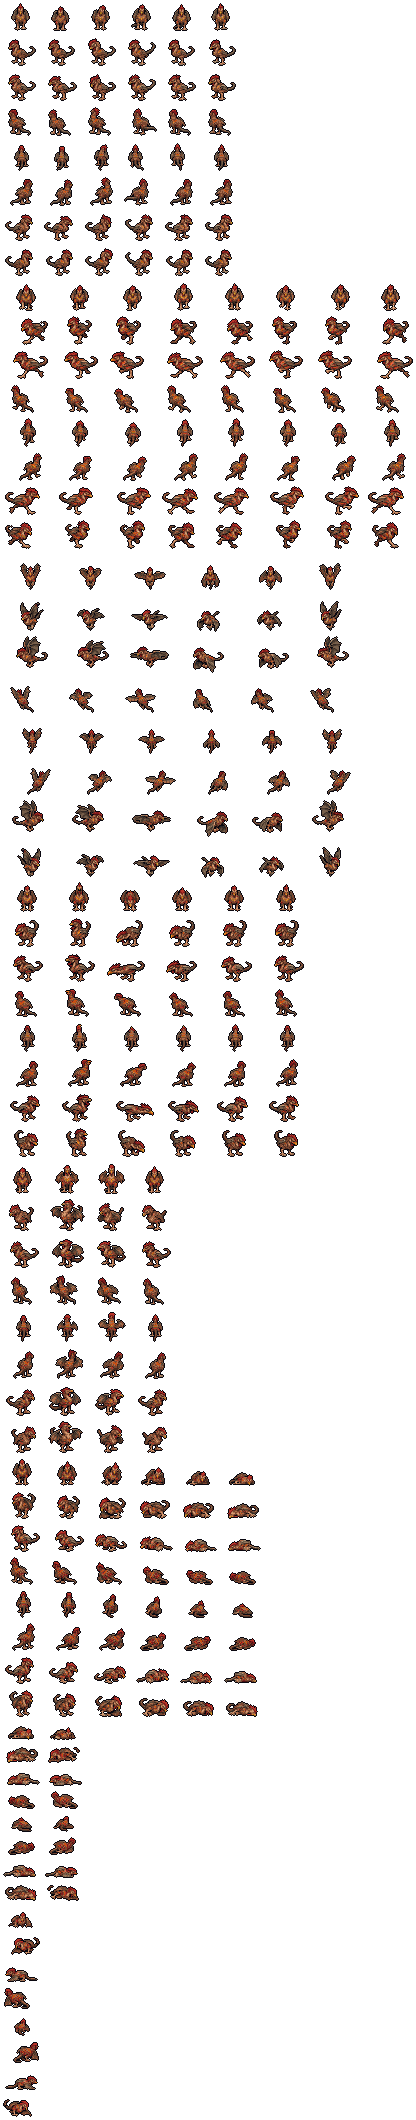
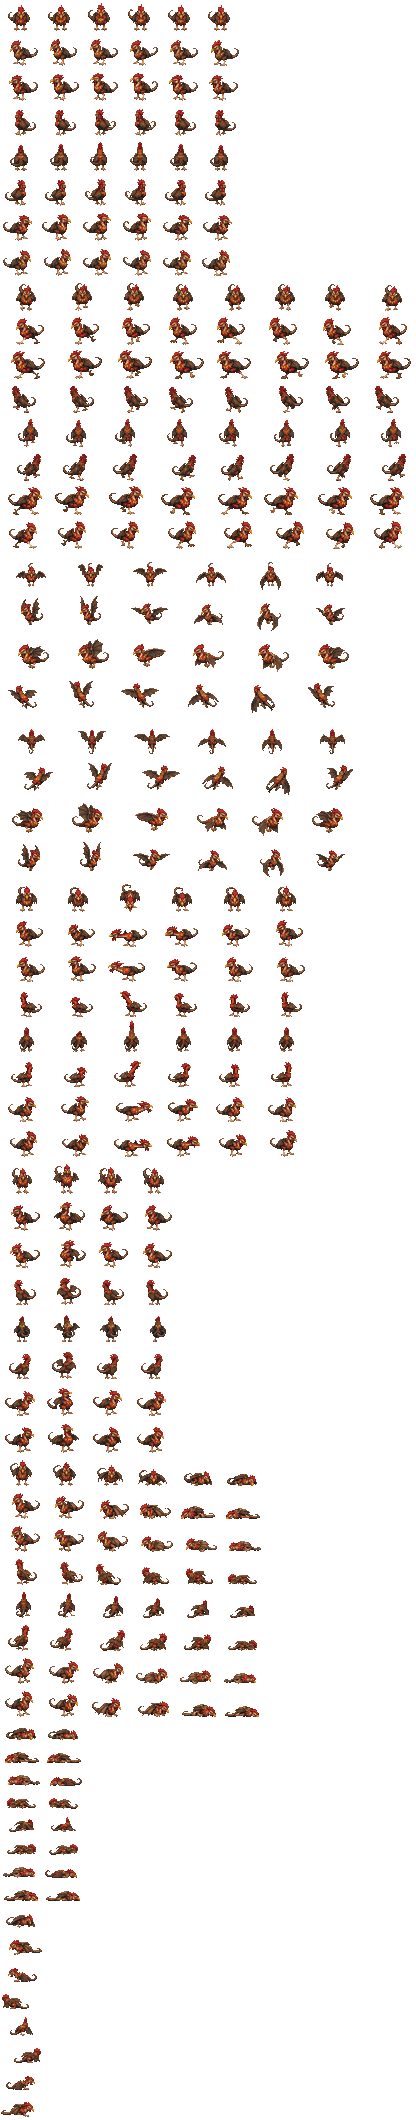
The cockatrice redrawn: the art desk's illustrated pages cut by its own recipe on our cells
The art desk's ART-WANTED-67 COCKATRICE ILLUSTRATED REDRAW (35 image-generated pages on the navy,
190 poses, no native cut) in place of the 11-15 cut of cockatrice_p1: its FRAME-MAP.json was made
against our installed sheet (its rows, cells, anchors and timing), so the sheet keeps every one.
tools/cockatrice-sheet.py redraw() follows its CUTTER-NOTES.md frame by frame -- the navy keyed out
(red minus blue > -5 or blue < 23), the main 8-connected piece, Lanczos to the frame's size, alpha at
128, the nearest of the 64 weighted 3:4:2, its trim and its place; prone 1 is Fall 6 moved by the
anchors' difference -- and matches its own 1x previews: every outline, all but 44 pixels in 31
frames (a shade, rounding). Its colours kept: the comb and wattle are drawn red, the chest
rust-orange (the house's red rule is for people's faces and cloth).

One change, the seat's call: the mat's navy enclosed between the legs, in the curled tail and under a
wing (2 game pixels or more) is left open; the notes' fill made it a dark blue blob at game size.
The 11-15 cut stays as `python tools/cockatrice-sheet.py 1115`.

Sorted out of Fresh to deep16/_src/cockatrice/2026-11-18-ART-WANTED-67-COCKATRICE-REDRAW/.
cockatrice1115 4 ok; its own show 9 ok (every row, the stoning bite); parade1115 22 ok.
Eyes eyes-cockatrice-redraw-1118 (the gallery's CREATURES shelf) in place of eyes-cockatrice-1115
(its art replaced, never seen; its stoning check carried); the art desk's flags on the dream list.
[…]

diff --git a/js/eyes.js b/js/eyes.js
@@ -22,6 +22,11 @@
   var DS = window.DS = window.DS || {};
   var G1 = 'Eyes: first', G2 = 'Eyes: built this week', G3 = 'Eyes: built before, never seen';
   DS.EYES = {
+    // THE CUTTER (cutter-1118), 11-18 (Opus; tools/cockatrice-sheet.py redraw(); deep16/art/cockatrice_p1): the cockatrice redrawn, in place of eyes-cockatrice-1115 (its art replaced, never seen)
+    'eyes-cockatrice-redraw-1118': { pri: 2, group: G2, title: 'THE COCKATRICE REDRAWN: the art desk\'s illustrated rooster-lizard, its bite that turns flesh to stone (11-18)', pt: 'the bestiary lane, 2026-11-18 (the cutter, cutter-1118; tools/cockatrice-sheet.py redraw(); deep16/art/cockatrice_p1; data/foes.js cockatrice)',
+      obj: 'In the gallery, watch the redrawn cockatrice strut, fly and bite — does it read as a rooster-lizard, its comb red?',
+      url: 'deep16/?gallery&shelf=creatures&rows=cockatrice&fresh=1118k',
+      look: 'A LOOK, the gallery\'s CREATURES shelf on the cockatrice, its blow rows staged at a fighter with the dice pinned. The art desk\'s illustrated redraw in place of the 11-15 cut, on the same cells, sizes and rows: a red comb and wattle, a gold beak, a rust-orange chest, bat-like brown wings and a ringed lizard\'s tail; idle, walk, fly (aloft), the Bite (frame 3), flinch, fall, lying and the start of rising. Cut by the art desk\'s own recipe, with one change: the navy between its legs and inside its curled tail is left open, not filled to a dark blob. The bite still does what the 11-15 row asked you to judge: a hero who fails a DC 11 CON save begins to turn to stone (restrained) and saves again at the end of its next turn -- its show, deep16/?show=cockatrice. In the day\'s parade: deep16/?parade&only=wyvern,frostgiant,winterwolf,guard,cockatrice,greenhag&from=5 (the crew boss pair and the clerk walk in round it). It is on no table: where it is met is yours. Judge: does it read as the drawing; does the bite land on frame 3?' },
     // THE CUTTER (cutter-1118), 11-18 (Opus; tools/folk-costume-sheet.py crewboss, crewbossfight; deep16/art/folk{man,woman}_crewboss_p1, crewboss_p1): the crew boss redrawn, the pair and his fight figure
     'eyes-crewboss-redraw-1118': { pri: 2, group: G2, title: 'THE CREW BOSS REDRAWN: the Galleries\' scrapeboss and the man in the art desk\'s illustrated figures, and his fight figure with the mace (11-18)', pt: 'the bestiary lane, 2026-11-18 (the cutter, cutter-1118; tools/folk-costume-sheet.py; deep16/art/folk{man,woman}_crewboss_p1, crewboss_p1)',
       obj: 'In the gallery, look over the crew bosses: the pair, and the man swinging his mace — do they read as their portraits?',
@@ -172,11 +177,6 @@
       obj: 'On the Coldridge Route, weather a flying wyvern\'s bite and sting — does it read aloft, not sunk in the floor?',
       url: 'deep16/?parade&only=wyvern&fresh=1115wa',
       look: 'A SHOW, the parade with the wyvern alone. Your "see if the wyvern cutter needs attacks while in flight and if it can cut off the legs on the attacks and use those", and "1 - yeah". It did: aloft it played its ground Bite and Sting with its legs planted on nothing. Now its sheet has two rows more, its Bite and its Sting with everything below the belly cut away (the hind legs and the wing-wrists it walks on; the stinger\'s tip kept where it strikes low) and the cut edge outlined, and the game plays them whenever it strikes while flying. The Claws stay as the art desk drew them -- wings spread, the talons forward: the talons are the blow, and it uses them only aloft (the seat\'s call, yours to overrule). In the parade it strikes on the ground for the first two rounds, takes to the air for the third (round the compass) and strikes flying, then lands for the crew boss. LOOK AT: the third round -- does the legless Bite and Sting read as a wyvern in flight, or as one sunk into the floor? The rows one at a time: ?gallery&shelf=creatures&rows=wyvern (airattack, airsting).' },
-    // THE CUTTER-FRESH-1115 SEAT, 11-15, its seventh piece (Opus; tools/cockatrice-sheet.py; data/foes.js cockatrice): the cockatrice, a new creature
-    'eyes-cockatrice-1115': { pri: 2, group: G2, title: 'THE COCKATRICE: a small rooster-lizard whose bite turns flesh to stone (11-15)', pt: 'the bestiary lane, 2026-11-15 (the cutter-fresh-1115 seat; tools/cockatrice-sheet.py; data/foes.js cockatrice)',
-      obj: 'Pocket DM, level 3: save a hero a cockatrice is turning to stone — does a failed save restrain the hero?',
-      url: 'deep16/?show=cockatrice&fresh=1115ck',
-      look: 'A SHOW (the watchers at level 3). The art desk\'s cockatrice: a small, mean rooster with a lizard\'s tail and bat-like wings. It struts in, flaps up, and pecks: a bitten hero who fails a DC 11 CON save begins to turn to stone (restrained), and saves again at the end of its next turn. Struck it flinches; down, it rolls onto its side. It is on no table: where it is met is yours.' },
     // THE PARADE-SHOW SEAT (parade-show-1115), 11-15 (Fable, after a start on Opus; deep16/js/parade.js; dev/bench16.js mode=parade1115): one show for the day's new art
     'eyes-parade-1115': { pri: 1, group: G1, title: 'THE PARADE: the four you have not watched in it -- the ice mephit, the cockatrice, the animated armor, the pegasus (11-15)', pt: 'the eyes lane, 2026-11-15 (the parade-show seat, parade-show-1115; deep16/js/parade.js; dev/bench16.js mode=parade1115)',
       obj: 'Watch the ice mephit, cockatrice, animated armor and pegasus in the parade — does nothing move till the townsfolk are in?',

diff --git a/deep16/index.html b/deep16/index.html
@@ -77,7 +77,7 @@
 <script src="js/art.js?v=e1ce4cf012"></script>
 <script src="data/cavern.js?v=647c1a184a"></script>
 <script src="data/maps.js?v=bef56a5de9"></script>
-<script src="data/sprites.js?v=4b988d974b"></script>
+<script src="data/sprites.js?v=71f73794e8"></script>
 <script src="js/sprites.js?v=ac7a3234c4"></script>
 <script src="js/save.js?v=f69af62f01"></script>
 <script src="data/spells.js?v=ae0037fb81"></script>
@@ -192,7 +192,7 @@
 <script src="js/parade.js?v=c64f9440c0"></script>
 <script src="js/ripplesfight.js?v=06a2bb3211"></script>
 <script src="js/blackegg.js?v=a19c31ed0d"></script>
-<script src="../js/eyes.js?v=6b9c5874f8"></script>
+<script src="../js/eyes.js?v=628c020988"></script>
 <script src="../js/tour.js?v=7715ef6c40"></script>
 <script src="js/onegallery.js?v=76e4ef74c9"></script>
 <script src="js/situations16.js?v=5ca0e8c2ff"></script>

diff --git a/deep16/data/sprites.js b/deep16/data/sprites.js
@@ -3082,7 +3082,7 @@
 "face": 41
 },
 "cockatrice_p1": {
-"image": "art/cockatrice_p1.png?v=5ca5dde6ff",
+"image": "art/cockatrice_p1.png?v=7a5d29c262",
 "fw": 40,
 "fh": 35,
 "ax": 20,
@@ -3164,7 +3164,7 @@
 }
 },
 "name": "Cockatrice",
-"source": "drawn by the art desk (COCKATRICE-DEEP16-SOURCES, 11-15), cut by tools/cockatrice-sheet.py; SW W NW mirrored -- the SRD 5.1 Cockatrice: deep16/data/foes.js cockatrice"
+"source": "drawn by the art desk (ART-WANTED-67 COCKATRICE ILLUSTRATED REDRAW, 11-18: image-generated, 35 pages), cut by tools/cockatrice-sheet.py redraw() by its own recipe on the installed cells; SW W NW mirrored -- the SRD 5.1 Cockatrice: deep16/data/foes.js cockatrice"
 },
 "crawler_p1": {
 "image": "art/crawler_p1.png?v=86d551e726",

diff --git a/tools/cockatrice-sheet.py b/tools/cockatrice-sheet.py
@@ -1,6 +1,13 @@
 """DEEP16 pipeline 2 (generated art): the cockatrice, the SRD's Small monstrosity -> deep16/art/cockatrice_p1, all eight facings.
 
-    python tools/cockatrice-sheet.py            (writes deep16/art/cockatrice_p1.png/.json)
+    python tools/cockatrice-sheet.py            (writes deep16/art/cockatrice_p1.png/.json: the 11-18 redraw, redraw() below)
+    python tools/cockatrice-sheet.py 1115       (the 11-15 cut, main(), from the first pages)
+
+THE REDRAW (11-18, the cutter seat cutter-1118, on the lanes desk's brief and Griz's "all 3"): the art desk's ART-WANTED-67 COCKATRICE ILLUSTRATED REDRAW,
+35 image-generated pages on the navy with no native cut, its FRAME-MAP.json made against our installed sheet (its rows, cells and anchors). redraw() follows
+its CUTTER-NOTES.md frame by frame (key, main piece, Lanczos, alpha 128, the nearest of the 64 weighted 3:4:2, its trim and place): every outline the same as
+its own 1x previews, 44 pixels in 31 frames a shade off (rounding). Its colours kept, not the house's people's rule: the comb and wattle are drawn red, the
+chest rust-orange. One change: the mat's navy enclosed between the legs, in the curled tail and under a wing stays open (OPEN_HOLE), not filled to a blob.
 
 The art desk's COCKATRICE-DEEP16-SOURCES (11-15, a new creature: no art-wanted section), claimed out of Fresh to deep16/_src/cockatrice/ (the zip beside its
 2026-11-15-COCKATRICE-SOURCES/) by the cutter-fresh-1115 seat on the lanes desk's queue: a page a view and row -- HEAD 1 SE (its PAGE 01 the identity, not cut), 2 the
@@ -113,5 +120,102 @@ def main():
                                            ', '.join('%s %s %.2f' % (a_, v, F[(a_, v)]) for (a_, v) in sorted(F) if a_ != 'idle')))
 
 
+REDRAW = os.path.join(DS.pix.SRC, 'cockatrice', '2026-11-18-ART-WANTED-67-COCKATRICE-REDRAW')
+if not os.path.isdir(REDRAW) and '.claude' in ROOT.split(os.sep):
+    REDRAW = os.path.join(ROOT.split(os.sep + '.claude' + os.sep)[0], 'deep16', '_src', 'cockatrice', os.path.basename(REDRAW))
+SOURCE_REDRAW = ('drawn by the art desk (ART-WANTED-67 COCKATRICE ILLUSTRATED REDRAW, 11-18: image-generated, 35 pages), cut by tools/cockatrice-sheet.py redraw() '
+                 'by its own recipe on the installed cells; SW W NW mirrored -- the SRD 5.1 Cockatrice: deep16/data/foes.js cockatrice')
+ORDER8 = ['S', 'SW', 'W', 'NW', 'N', 'NE', 'E', 'SE']
+OPEN_HOLE = 2.0    # (game pixels: a hole of the mat's navy this big or more is the ground showing through, left open)
+MIR8 = {'SW': 'SE', 'W': 'E', 'NW': 'NE'}
+
+
+def redraw_frame(pg, f, pal, w342):
+    """one pose by the art desk's CUTTER-NOTES.md: the navy keyed out (kept where red minus blue > -5 or blue < 23) in the frame's keying window, its main
+    8-connected piece with its holes filled; the crop resized to `reduced_size` by Lanczos, alpha at 128, each colour the nearest of the 64 by squared
+    distance weighted 3:4:2; trimmed by `reduced_alpha_crop_ltrb` and pasted at `placement_xy` in the installed cell"""
+    kx0, ky0, kx1, ky1 = f['keying_window_ltrb']
+    win = pg[ky0:ky1, kx0:kx1].astype(np.int32)
+    fg = ((win[..., 0] - win[..., 2]) > -5) | (win[..., 2] < 23)
+    lab, n = ndimage.label(fg, structure=np.ones((3, 3)))
+    if not n:
+        raise SystemExit('no figure in the window')
+    main_ = lab == 1 + int(np.argmax(ndimage.sum(fg, lab, range(1, n + 1))))
+    keep = ndimage.binary_fill_holes(main_)
+    # the one change to the recipe (the seat's call, 11-18): an enclosed hole that is the mat itself -- the navy between the legs under the belly, inside a
+    # curled tail or a wing -- stays open when it would be OPEN_HOLE game pixels or more; filled, it came out a dark blue blob at game size (its own 1x has
+    # it). The small holes, the dark feathers the key lets through, are filled as the notes say.
+    x0, y0, x1, y1 = f['source_crop_ltrb']
+    sc = f['reduced_size'][0] / float(x1 - x0)
+    hl, hn = ndimage.label(keep & ~main_)
+    for k in range(1, hn + 1):
+        hk = hl == k; c = win[hk]
+        if hk.sum() * sc * sc >= OPEN_HOLE and np.median(c[:, 0] - c[:, 2]) <= -12:
+            keep &= ~hk
+    m = np.zeros(pg.shape[:2], bool); m[ky0:ky1, kx0:kx1] = keep
+    rgba = np.dstack([pg[y0:y1, x0:x1].astype(np.uint8), (m[y0:y1, x0:x1] * 255).astype(np.uint8)])
+    r = np.asarray(Image.fromarray(rgba, 'RGBA').resize(tuple(f['reduced_size']), Image.LANCZOS)).astype(np.int32)
+    solid = r[..., 3] >= 128
+    d = ((r[..., None, :3] - pal[None, None]) ** 2 * w342).sum(-1)
+    out = np.zeros(r.shape[:2] + (4,), np.uint8)
+    out[solid, :3] = pal[np.argmin(d, -1)][solid]; out[solid, 3] = 255
+    cl, ct, cr, cb = f['reduced_alpha_crop_ltrb']; out = out[ct:cb, cl:cr]
+    cw, ch = f['cell']; px, py = f['placement_xy']
+    cell = np.zeros((ch, cw, 4), np.uint8)
+    if px < 0 or py < 0 or px + out.shape[1] > cw or py + out.shape[0] > ch:
+        raise SystemExit('%s %d: placed outside its cell' % (f['runtime_row'], f['runtime_frame_1_based']))
+    cell[py:py + out.shape[0], px:px + out.shape[1]] = out
+    return cell
+
+
+def redraw():
+    """the 11-18 redraw: every frame where the art desk's FRAME-MAP.json puts it, on the rows and cells installed (its `installed_anims`, ours at the time);
+    `prone` frame 1 is Fall 6 pixel for pixel, moved by the anchors' difference; SW, W and NW the mirrors about the anchor (flip, a pixel back)"""
+    fm = json.load(open(os.path.join(REDRAW, 'FRAME-MAP.json'), encoding='utf-8'))
+    inst = fm['installed_anims']
+    pal = np.array(sorted({tuple(int(c[i:i + 2], 16) for i in (1, 3, 5)) for r in json.load(open(os.path.join(ROOT, 'deep16', 'palette.json'), encoding='utf-8'))['ramps'].values() for c in r}), np.int32)
+    w342 = np.array([3, 4, 2], np.int32)
+    got = {}
+    for key, p in fm['pages'].items():
+        pg = np.asarray(Image.open(os.path.join(REDRAW, *p['source'].split('/'))).convert('RGB'))
+        for f in p['frames']:
+            a = inst[f['runtime_row']]
+            if list(f['cell']) != [a['fw'], a['fh']] or list(f['anchor']) != [a['ax'], a['ay']]:
+                raise SystemExit('%s %s: its cell is not the installed row\'s' % (key, f['frame']))
+            got[(p['facing'], f['runtime_row'], f['runtime_frame_1_based'] - 1)] = redraw_frame(pg, f, pal, w342)
+    hu, pr = inst['hurt'], inst['prone']
+    for v in ('S', 'SE', 'E', 'NE', 'N'):
+        last = got[(v, 'hurt', hu['frames'] - 1)]; cell = np.zeros((pr['fh'], pr['fw'], 4), np.uint8)
+        dx, dy = pr['ax'] - hu['ax'], pr['ay'] - hu['ay']
+        ys, xs = np.where(last[..., 3] > 0)
+        if (xs + dx).min() < 0 or (ys + dy).min() < 0 or (xs + dx).max() >= pr['fw'] or (ys + dy).max() >= pr['fh']:
+            raise SystemExit('%s: Fall 6 does not fit the prone cell' % v)
+        cell[ys + dy, xs + dx] = last[ys, xs]
+        got[(v, 'prone', 0)] = cell
+    anims, blocks, y = {}, [], 0
+    for name in sorted(inst, key=lambda k: inst[k]['y']):
+        a = inst[name]
+        blk = np.zeros((8 * a['fh'], a['frames'] * a['fw'], 4), np.uint8)
+        for fi, fa in enumerate(ORDER8):
+            for i in range(a['frames']):
+                fr = got[(MIR8.get(fa, fa), name, i)]
+                if fa in MIR8:
+                    if fr[:, 0, 3].any():
+                        raise SystemExit('%s %s %d: drawn on column 0, lost by the mirror' % (fa, name, i + 1))
+                    fr = np.roll(fr[:, ::-1], 1, axis=1)
+                blk[fi * a['fh']:(fi + 1) * a['fh'], i * a['fw']:(i + 1) * a['fw']] = fr
+        if a['y'] != y:
+            raise SystemExit('%s: at y %d, installed at %d' % (name, y, a['y']))
+        anims[name] = dict(a); blocks.append(blk); y += 8 * a['fh']
+    W = max(b.shape[1] for b in blocks); sheet = np.zeros((y, W, 4), np.uint8); yy = 0
+    for b in blocks:
+        sheet[yy:yy + b.shape[0], :b.shape[1]] = b; yy += b.shape[0]
+    Image.fromarray(sheet, 'RGBA').save(os.path.join(ROOT, 'deep16', 'art', NAME + '.png'), optimize=True)
+    i0 = anims['idle']
+    json.dump(dict(image='art/%s.png' % NAME, fw=i0['fw'], fh=i0['fh'], ax=i0['ax'], ay=i0['ay'], top=TALL, anims=anims, name='Cockatrice', source=SOURCE_REDRAW),
+              open(os.path.join(ROOT, 'deep16', 'art', NAME + '.json'), 'w', encoding='utf-8', newline='\n'), indent=1)
+    print('%s: %dx%d, rows %s (the redraw, %d drawn frames)' % (NAME, W, y, ', '.join('%s %d' % (n_, a_['frames']) for n_, a_ in anims.items()), len(got)))
+
+
 if __name__ == '__main__':
-    main()
+    main() if sys.argv[1:] == ['1115'] else redraw()

diff --git a/deep16-dream-polish.md b/deep16-dream-polish.md
@@ -151,3 +151,4 @@ Griz, 10-30, to the lanes desk, on Talmok's walks that repeat a leg: *"gimpy art
 - 2026-11-16 · `folkman_hired_p1` E and NE walks (and their W and NW mirrors), `folkwoman_hired_p1` NE walk (and NW) (the art desk's 76 illustrated redraw) · Held by the art desk, which hit its image ceiling mid-fix: frames 1 and 5 lead with the same leg, so the stride repeats. Cut as drawn on his *"we can wishlist what's broken and use what's there if it included all the pieces"*. Its own note too: in the three repaired walks (the woman's SE and E, the man's SE) the 4 to 5 join is more abrupt than 8 to 1. · Those walks with a second contact on the other leg, joined smoothly at 5.
 - 2026-11-18 · `folkman_guard_p1` SE, E and NE walks, `folkwoman_guard_p1` SE and NE walks (and their SW, W and NW mirrors) (the art desk's 77 illustrated redraw); `guard_p2` and `guardwoman_p1` NE walks (and NW) (its 77 fight figures) · Held by the art desk for a gait it could not fix: frames 1 and 5 lead with the same boot, so the stride repeats; the man's E reads ambiguous at 1x. Cut as drawn, as the hired hand's were on his *"we can wishlist what's broken and use what's there if it included all the pieces"*. · Those walks with a second contact on the other leg.
 - 2026-11-18 · `folkman_crewboss_p1` SE, E, NE and N walks, `folkwoman_crewboss_p1` every walk (with their mirrors); `crewboss_p1` SE, E and NE walks, S Mace, SE and E Fall (the art desk's 78 illustrated redraw) · The art desk's own holds (ART-HOLDS.json): in the walks frames 1 and 5 read as the same leading boot, or the skirt hides the change, and the 8 to 1 seam stays near contact; his S Mace is foreshortened into his body at the blow, its head hidden; the SE and E falls end partly forward on the shoulder, the mace occluded. Cut as drawn, on his *"use what's there"*. · Walks with a second contact on the other leg; a south blow whose mace head shows at contact; falls that end on the side.
+- 2026-11-18 · `cockatrice_p1` walk, getup (the art desk's 67 illustrated redraw) · The art desk's own notes: SE and E Walk 2 and 3 read like a hold at 1x (the planted claw stays while the far claw passes); the S and N contacts are subtle head-on; in N the head rises 2 px from lying to its rise. Cut as drawn. · Walks whose passing frames read as steps from every side; a rise that keeps the head's height.
